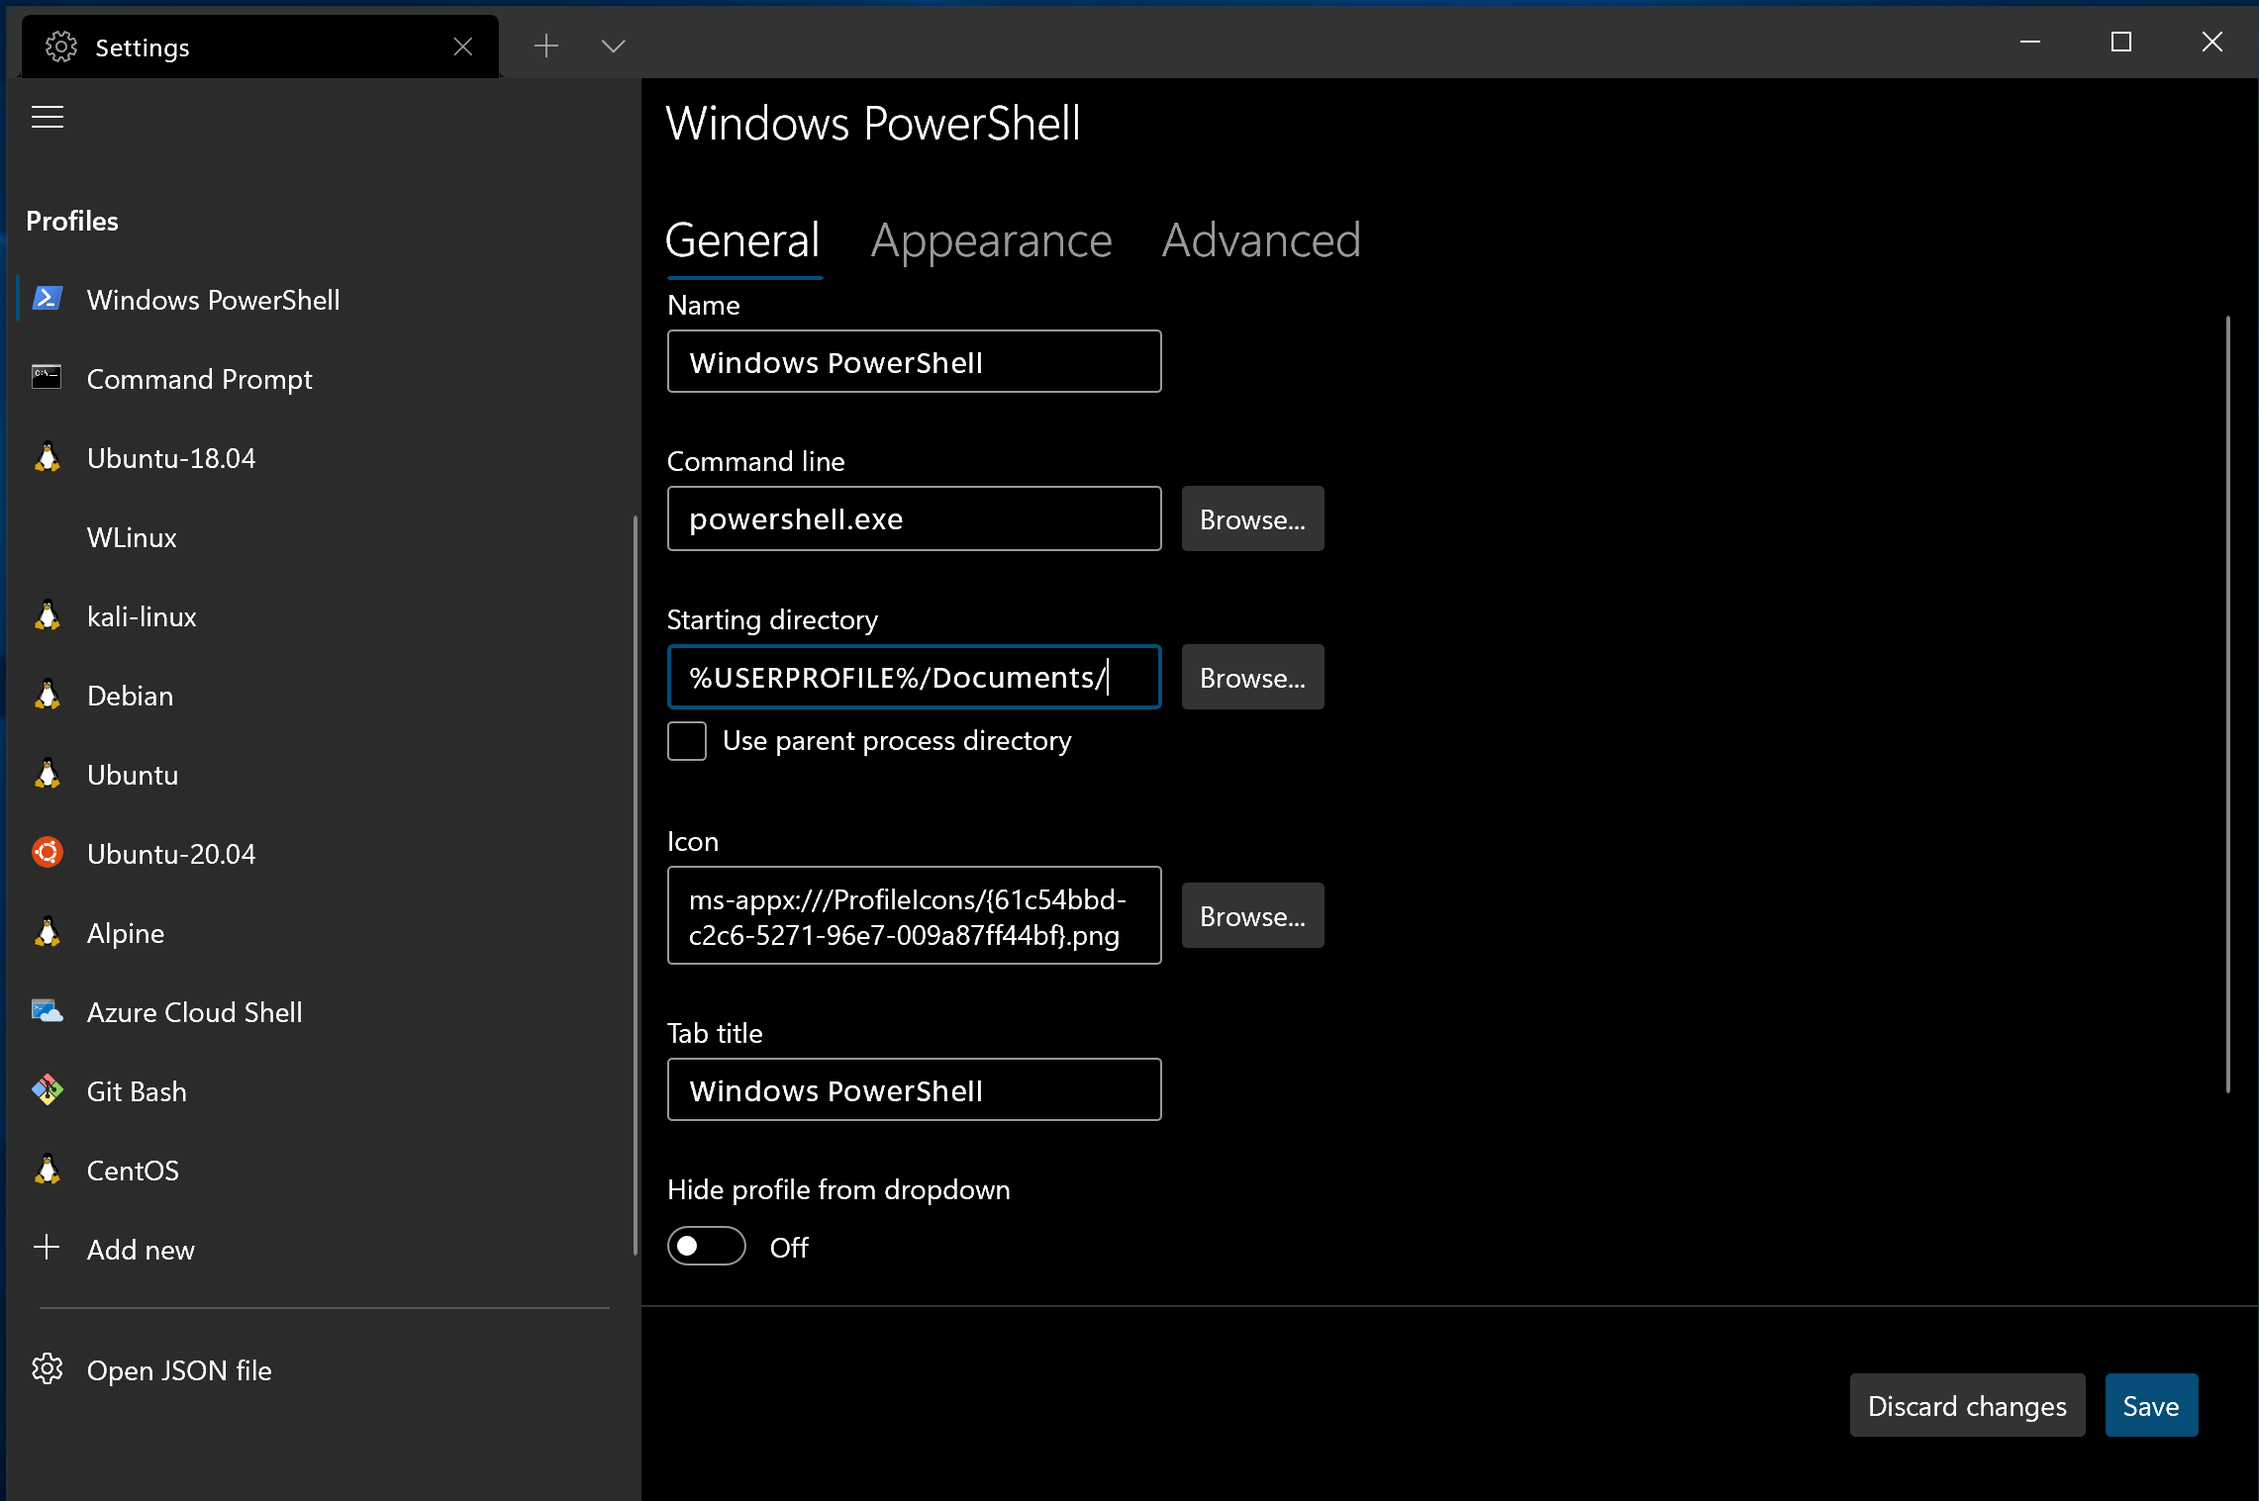
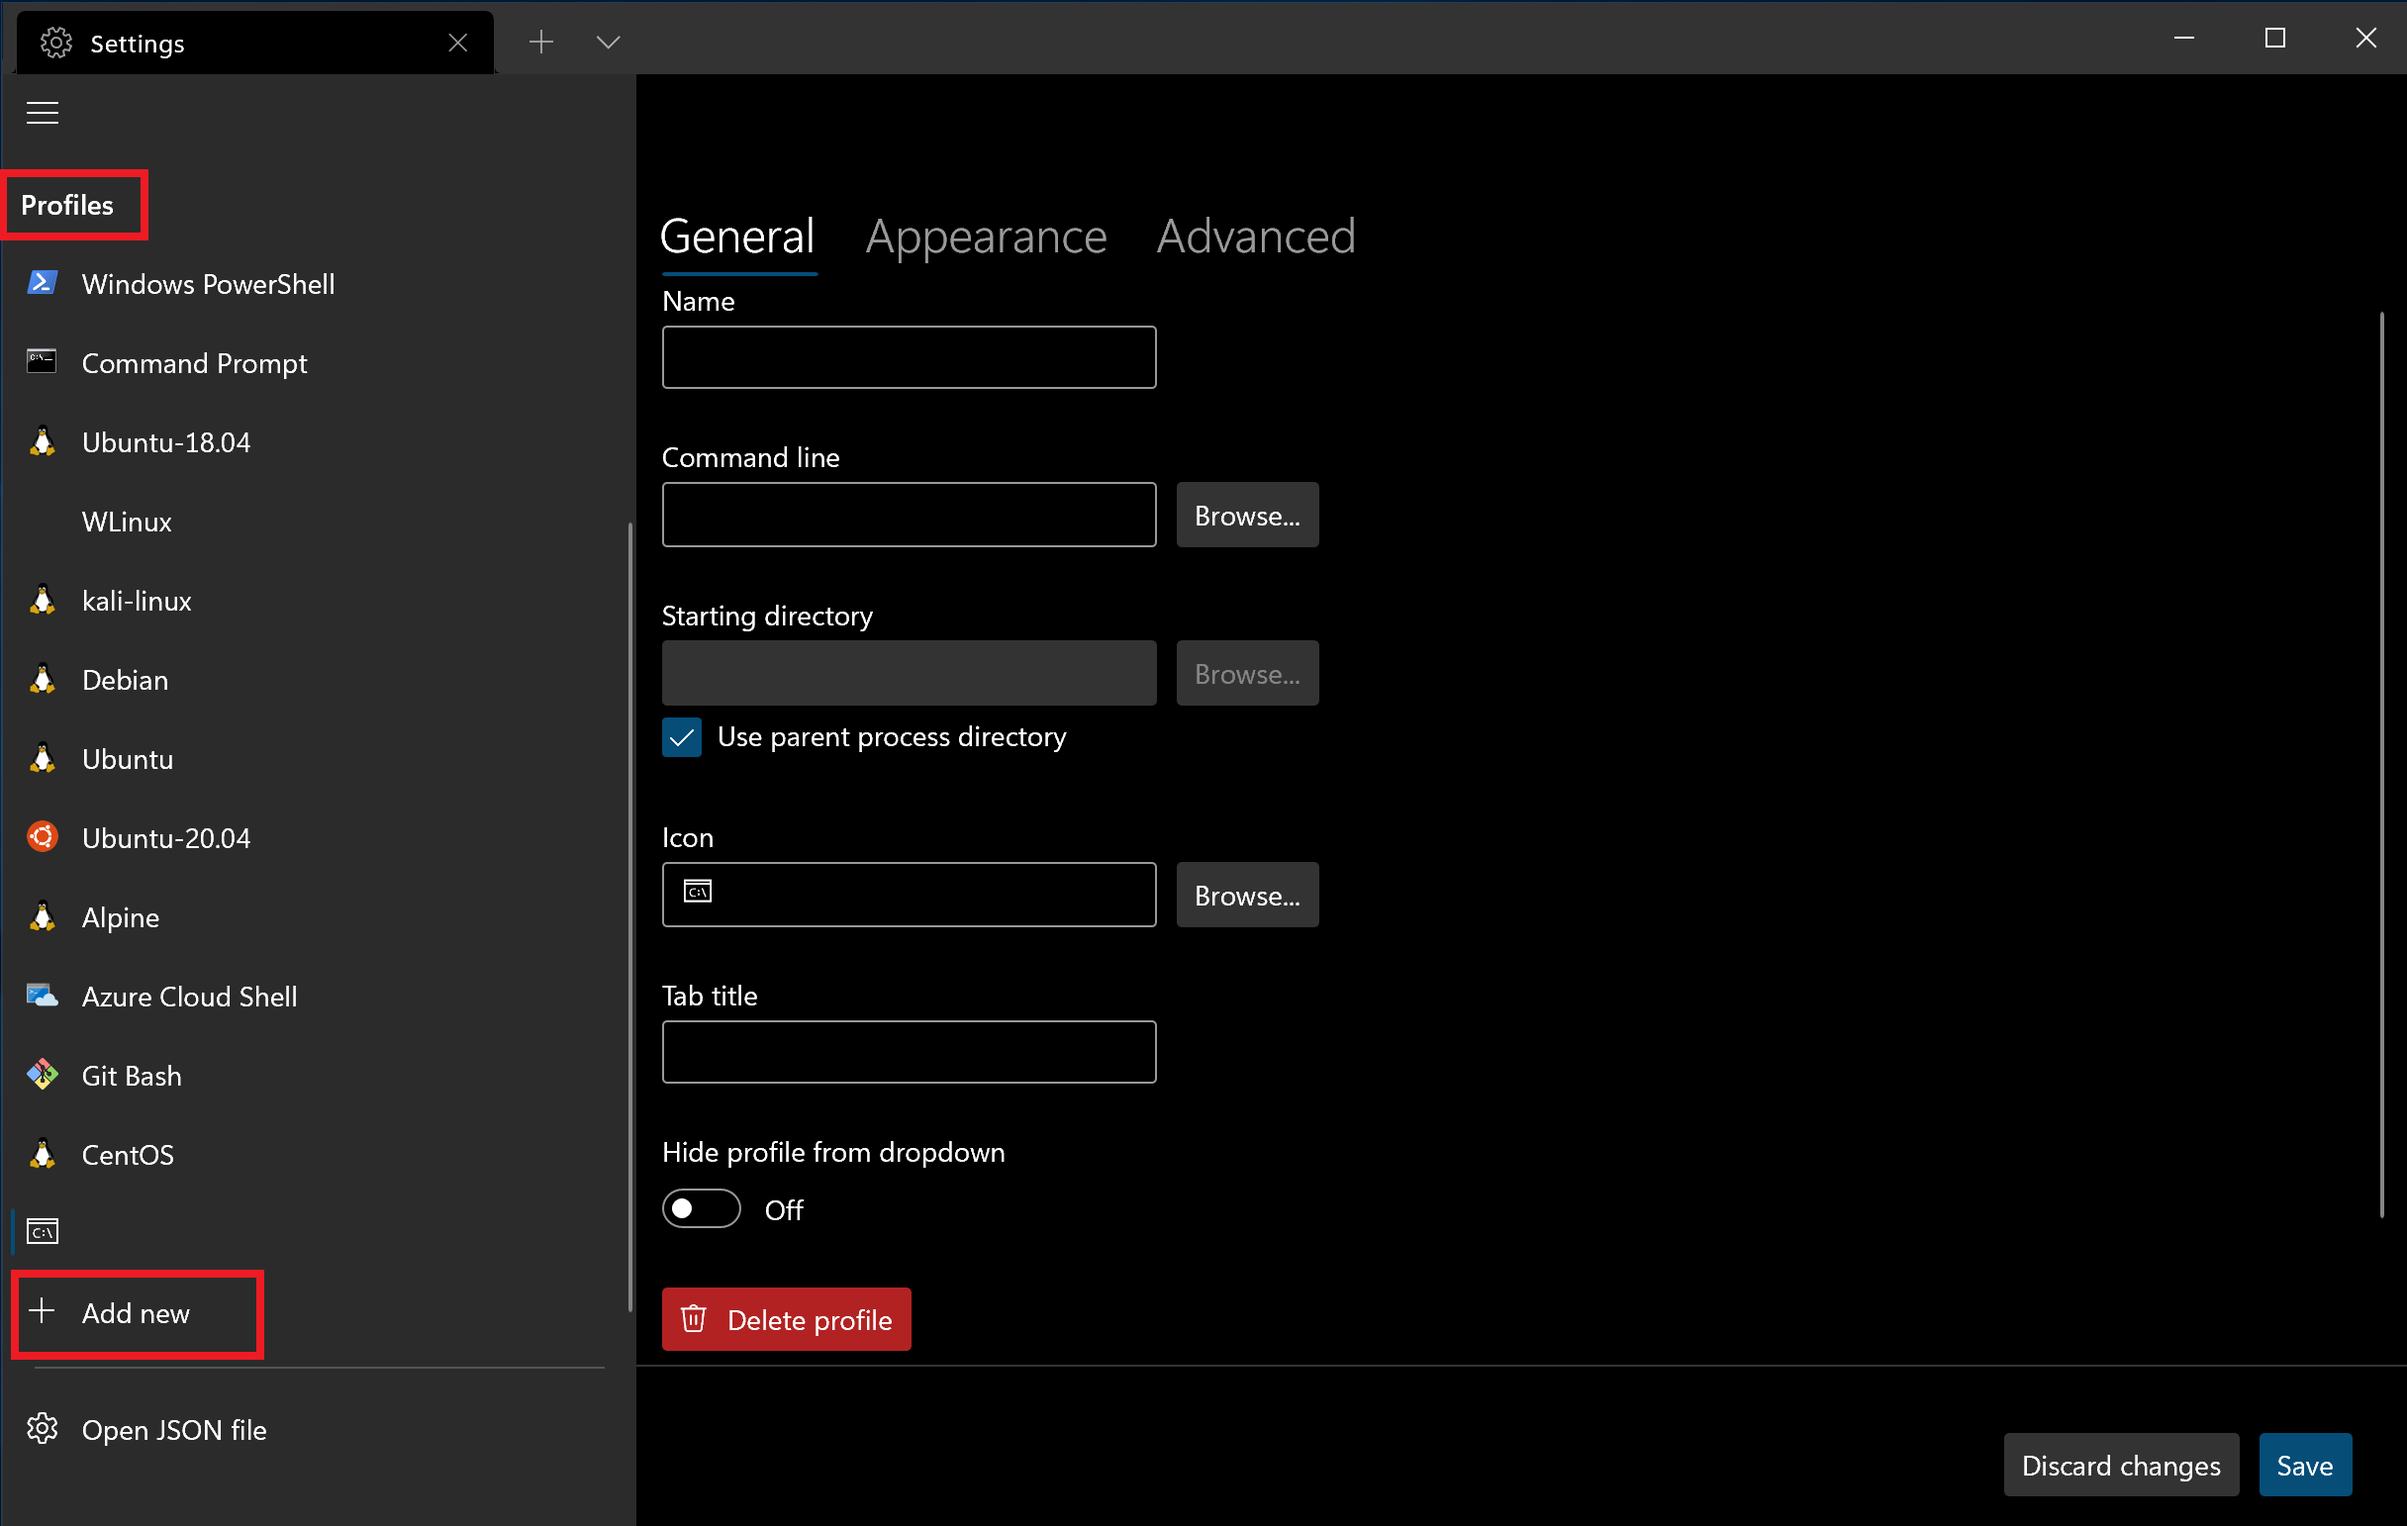
Correct title verbage, update screenshot

diff --git a/TerminalDocs/get-started.md b/TerminalDocs/get-started.md
@@ -10,7 +10,7 @@ ms.localizationpriority: high
 
 # Install and set up Windows Terminal
 
-## Installation
+## Install
 
 Visit the Microsoft Store to **[install Windows Terminal](https://aka.ms/terminal)**.
 
@@ -41,9 +41,13 @@ You can also [set your default profile in the Settings.json file](./customize-se
 
 ![Screenshot of Windows Terminal Settings default profile](./images/settings-default-profile.png)
 
-## Dynamic profiles
+## Add new profiles
 
-The terminal will automatically create profiles for you if you have WSL distributions or multiple versions of PowerShell installed. Learn more about dynamic profiles on the [Dynamic profiles page](./dynamic-profiles.md).
+Windows Terminal will automatically create profiles for you if you have WSL distributions or multiple versions of PowerShell installed.
+
+Your command line profiles will be listed in the Settings UI, in addition to the option to **+ Add new** profiles.
+
+Learn more about dynamic profiles on the [Dynamic profiles page](./dynamic-profiles.md).
 
 ![Screenshot of Windows Terminal Settings list of profiles](./images/settings-dynamic-profiles.png)
 
